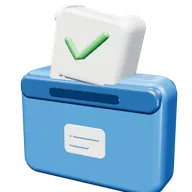
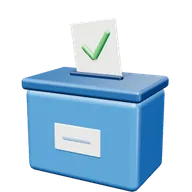
Símbolos modelados en 3D real (últimos 8): capitolio, urna, molécula, matraz con engrane, torre de destilación, globo con bandera, pasaporte y maleta. Ya son los 132

diff --git a/datos/simbolos3d/models.js b/datos/simbolos3d/models.js
@@ -38,6 +38,70 @@ const PU='#8E5BB5',TE='#2FA39A',OR='#F08A2E',PK='#F3A3B5',GL='#AEE0F2';const GY=
 
 const circ=(cx,cy,r,n,a0,a1)=>{a0=a0==null?0:a0;a1=a1==null?Math.PI*2:a1;const o=[];for(let i=0;i<n;i++){const a=a0+(a1-a0)*i/(n-(Math.abs(a1-a0-Math.PI*2)<1e-6?0:1));o.push([cx+Math.cos(a)*r,cy+Math.sin(a)*r])}return o};
 export const MODELS={
+  // Capitolio: escalinata, columnas, frontón, tambor y cúpula
+  'politicas.a'(K){
+    [[80,4,40,-38],[72,4,36,-34],[64,4,32,-30]].forEach(([w,h,d,y])=>K.box(w,h,d,'#D5DCE2',{p:[0,y,0],rad:0.6}));
+    for(let i=0;i<6;i++)K.cyl(2.6,2.8,26,WH,{p:[-25+i*10,-15,12]});
+    K.box(64,24,22,'#ECEEF0',{p:[0,-15,-2],rad:0.6});
+    K.box(66,4,34,WH,{p:[0,0,0],rad:0.6});
+    K.ext('M-33 0 L33 0 L0 -12 Z',34,WH,{bevel:0.6,p:[0,2,0]});
+    K.cyl(16,16,12,WH,{p:[0,20,-4]});for(let i=0;i<12;i++){const a=i/12*Math.PI*2;K.cyl(1,1,11,'#D5DCE2',{p:[Math.cos(a)*16.4,20,Math.sin(a)*16.4-4]})}
+    const d=K.sph(16,ST,{m:'metal',p:[0,26,-4]});d.geometry=new THREE.SphereGeometry(16,40,20,0,Math.PI*2,0,Math.PI/2);
+    K.cyl(3,3,8,WH,{p:[0,46,-4]});K.cone(2.4,6,ST,{m:'metal',p:[0,53,-4]});
+  },
+  // Urna de votación con boleta entrando
+  'politicas.b'(K){
+    K.box(64,46,40,BL,{p:[0,-12,0],rad:4});K.box(66,6,42,'#2C5E91',{p:[0,13,0],rad:2});
+    K.box(30,3,4,'#1A3A5C',{p:[0,16.5,0],rad:1});
+    [20.4,-20.4].forEach(z=>{K.box(26,14,1,WH,{p:[0,-12,z],rad:1.4});K.box(16,2,1.4,'#7FA8D6',{p:[0,-12,z],rad:0.6})});
+    const b=K.group({p:[0,30,0],r:[0,0,8]});K.box(26,30,1,WH,{parent:b,rad:0.6});
+    [0.8,-0.8].forEach(z=>K.tube([[-6,2,z],[-1,-4,z],[8,8,z]],1.4,GR,{parent:b,tension:0}));
+  },
+  // Molécula: tres átomos unidos por enlaces
+  'quimica.a'(K){
+    const A=[[0,20,0,15,RE],[-22,-16,6,12,BL],[22,-14,-6,13,WH]];
+    A.forEach((a,i)=>{K.sph(a[3],a[4],{p:a.slice(0,3)});const b=A[(i+1)%3];K.tube([a.slice(0,3),b.slice(0,3)],2.4,'#8994A0',{nocap:true})});
+  },
+  // Matraz de laboratorio con líquido verde y engrane de ingeniería
+  'quimicaing.a'(K){
+    K.lathe([[0.01,-30],[26,-30],[28,-27],[9,10],[9,28],[11,30],[0.01,30]],'#DDF1FA',{m:'membrane',p:[-8,0,0]});
+    K.lathe([[0.01,-29],[25,-29],[19,-12],[0.01,-12]].reverse(),GR,{p:[-8,0,0]});
+    [[-12,-22],[-4,-18],[-10,-14]].forEach(([x,y])=>K.sph(1.8,'#BFF0C8',{p:[x,y,8]}));
+    K.cyl(10,10,6,ST,{m:'metal',p:[-8,33,0]});
+    const g=K.group({p:[26,22,0]});K.cyl(10,10,7,ST,{m:'metal',r:[90,0,0],parent:g});
+    for(let i=0;i<8;i++){const a=i/8*Math.PI*2;K.box(5,5,7,ST,{m:'metal',p:[Math.cos(a)*11.5,Math.sin(a)*11.5,0],r:[0,0,a*180/Math.PI],rad:1,parent:g})}
+    K.cyl(3.4,3.4,8,'#5B6670',{r:[90,0,0],parent:g});
+  },
+  // Torre de destilación con platos, tuberías y válvulas
+  'quimicaing.b'(K){
+    K.cap(14,62,ST,{m:'metal'});
+    for(let i=0;i<5;i++)K.tor(14.2,0.9,'#3A82C4',{p:[0,-24+i*12,0],r:[90,0,0]});
+    K.tube([[-14,18,0],[-26,18,0],[-26,-10,0]],2.4,GY,{m:'metal',tension:0});K.cyl(4,4,3,RE,{p:[-26,-12,0]});
+    K.tube([[14,-6,0],[28,-6,0],[28,-34,0]],2.4,GY,{m:'metal',tension:0});K.cyl(4,4,3,OR,{p:[28,-36,0]});
+    K.cyl(18,18,4,'#5B6670',{p:[0,-46,0]});K.sph(4,OR,{p:[0,-26,13]});
+  },
+  // Globo terráqueo con continentes y bandera
+  'rrii.a'(K){
+    K.sph(30,BL,{});
+    const blob=(lat,lon,r,sx,sy)=>{const v=new THREE.Vector3().setFromSphericalCoords(29.4,(90-lat)*Math.PI/180,lon*Math.PI/180);const m=K.sph(r,GR,{p:[v.x,v.y,v.z],s:[sx,sy,0.14]});m.lookAt(0,0,0)};
+    [[30,-100,11,1.2,1],[-15,-60,9,0.9,1.5],[45,10,9,1.3,0.8],[5,20,10,0.9,1.4],[50,90,12,1.6,0.9],[-25,135,7,1.2,0.9],[60,-40,5,1,1]].forEach(b=>blob(...b));
+    K.cyl(1.4,1.4,24,GY,{m:'metal',p:[14,36,8],r:[0,0,-20]});K.ext('M0 0 L18 5 L0 10 Z',1.4,RE,{bevel:0.4,p:[18,36,8],r:[0,0,-20]});
+  },
+  // Pasaporte con escudo dorado
+  'rrii.b'(K){
+    K.box(54,74,8,NA,{rad:3});K.box(52,72,6,'#F4F2EC',{p:[1.4,0,0],rad:2});K.box(54,74,7,NA,{p:[0,0,0.6],rad:3,s:[1,1,1]});
+    [4.3,-4.3].forEach(z=>{K.tor(11,1.2,GO,{m:'gold',p:[0,8,z]});K.box(22,1.6,0.6,GO,{m:'gold',p:[0,8,z],rad:0.4});K.box(1.6,22,0.6,GO,{m:'gold',p:[0,8,z],rad:0.4});
+      K.box(30,2,0.6,GO,{m:'gold',p:[0,-18,z],rad:0.5});K.box(20,1.6,0.6,GO,{m:'gold',p:[0,-24,z],rad:0.5})});
+  },
+  // Maleta de viaje con asa, cintas, broches, ruedas y etiqueta
+  'turismo.a'(K){
+    K.box(70,54,28,OR,{p:[0,-4,0],rad:6});
+    K.tube([[-14,23,0],[-14,32,0],[14,32,0],[14,23,0]],2.6,'#5E3A20',{tension:0.2});
+    [-18,18].forEach(x=>{K.box(5,55,29,'#8A4A16',{p:[x,-4,0],rad:1.4});[14.8,-14.8].forEach(z=>K.box(6,5,1.4,ST,{m:'metal',p:[x,14,z],rad:0.8}))});
+    [[-28,-14],[28,-14],[-28,14],[28,14]].forEach(([x,z])=>K.sph(3.4,BK,{p:[x,-33,z]}));
+    K.box(14,10,1,WH,{p:[2,-8,14.6],rad:1});K.box(8,1,1.2,'#9AA3AC',{p:[2,-8,15],rad:0.3});
+  },
+
   // Silla de madera con respaldo de travesaños
   'disindustrial.a'(K){
     K.box(46,5,42,WO,{m:'wood',p:[0,0,0],rad:1.6});
